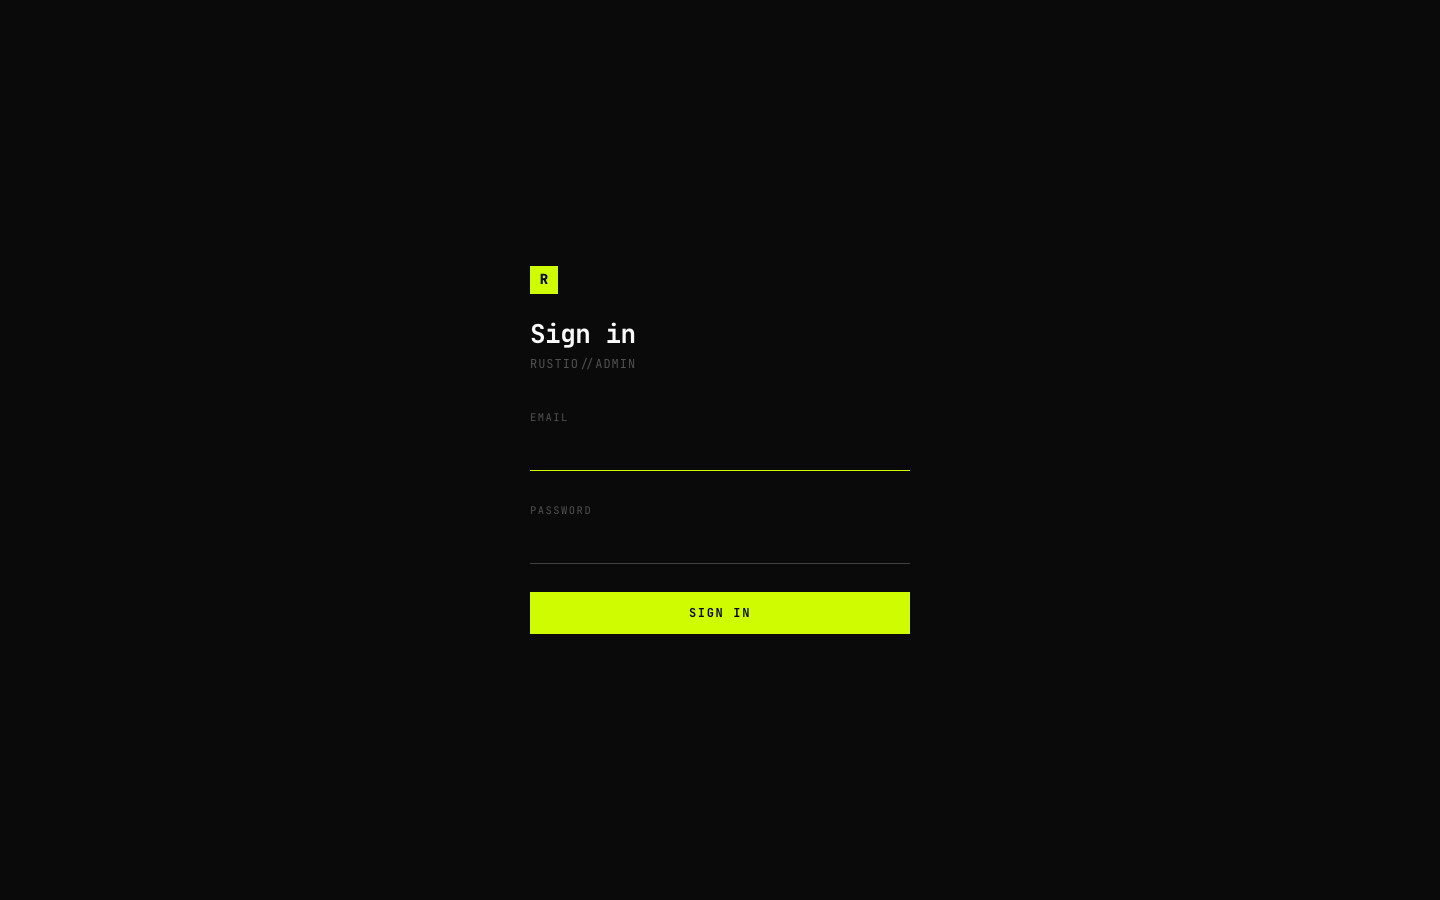
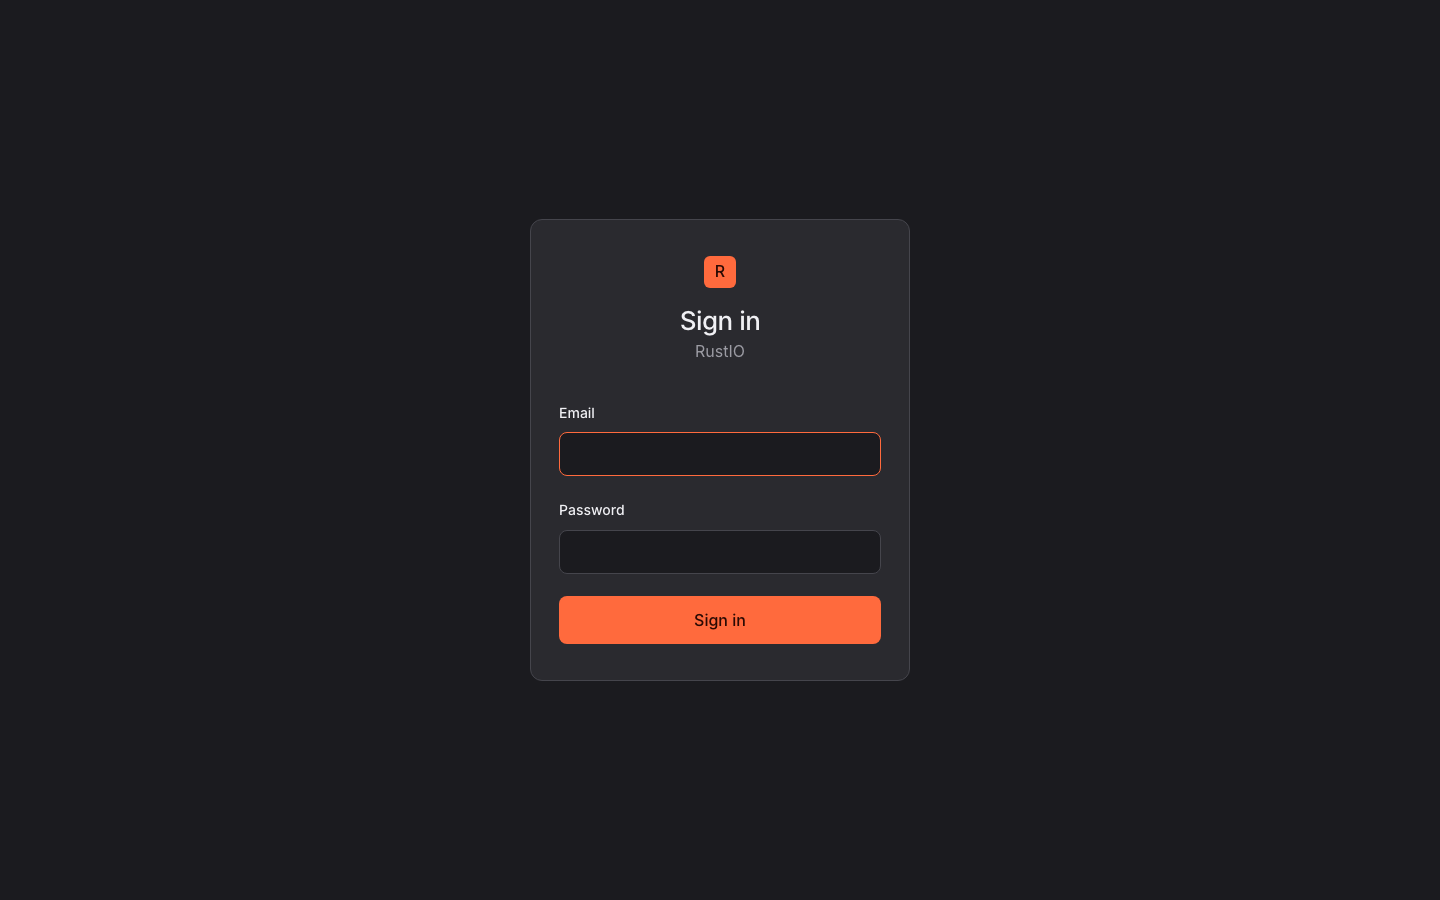
refactor(admin)[5/5]: auth + sentence-case status renderer + screenshots
Auth (login page):
  - Centered 380px card on the canvas, --bg-surface fill, 0.5px
    border, 12px radius.
  - Accent-orange "R" mark at the top (32x32, 6px radius).
  - 26px "Sign in" headline + 16px project-name subtitle, all
    weight 500 / 400 per spec.
  - Inputs: 44px height, --bg-canvas fill (slightly darker than
    the card around them), 0.5px border, focus moves border to
    --accent (no glow, no shadow).
  - Submit: full-width filled --accent button, weight 500.
  - Old admin-shell Bootstrap utility classes removed from the
    template — auth now uses semantic .rio-* classes only.

Rust renderer — humanize_status_label:
  - New helper turns raw status values into sentence case:
      "in_progress" → "In progress"
      "TODO"        → "Todo"
      "done"        → "Done"
      "custom_state"→ "Custom state"
  - Underscores become spaces, only the first character is
    uppercased (sentence case, not Title Case per the spec).
  - normalize_status_pill calls into it for the non-boolean
    branch. Booleans still map "0"/"1" → "Active"/"Inactive"
    directly (already sentence case).
  - Two new + one updated unit test in admin::layout::tests
    cover the humanizer happy path and edge cases (empty,
    leading whitespace, multi-word).

Template test update:
  - admin::templating::tests::dashboard_renders_with_minimum_context
    asserted the rendered HTML contains "Dashboard". The new
    dashboard template uses "Overview" (in <title>) and "Your
[…]

Changed region(s): [[0.3438, 0.2178, 0.6562, 0.7778]]

diff --git a/rustio-core/assets/static/admin.css b/rustio-core/assets/static/admin.css
@@ -654,6 +654,121 @@ body.admin-shell .page-item.active .page-link,
   color: var(--accent);
 }
 
+/* ----------------------------------------------------------------------------
+ * Auth (sign-in) — centred card on the canvas
+ * -------------------------------------------------------------------------- */
+
+body.admin-auth {
+  display: flex;
+  align-items: center;
+  justify-content: center;
+  min-height: 100vh;
+  padding: var(--space-6) var(--space-4);
+  background: var(--bg-canvas);
+  color: var(--text-primary);
+  font-family: var(--font-sans);
+  font-size: var(--text-body);
+  line-height: 1.7;
+}
+
+.rio-auth {
+  width: 100%;
+  max-width: 380px;
+  background: var(--bg-surface);
+  border: 0.5px solid var(--border-default);
+  border-radius: var(--radius-lg);
+  padding: var(--space-7) var(--space-6);
+}
+
+.rio-auth__header {
+  text-align: center;
+  margin-bottom: var(--space-7);
+}
+
+.rio-auth__mark {
+  display: inline-flex;
+  align-items: center;
+  justify-content: center;
+  width: 32px;
+  height: 32px;
+  border-radius: var(--radius-sm);
+  background: var(--accent);
+  color: var(--accent-text);
+  font-weight: 500;
+  font-size: var(--text-h3);
+  margin-bottom: var(--space-4);
+}
+
+.rio-auth__title {
+  font-size: var(--text-hero);
+  font-weight: 500;
+  color: var(--text-primary);
+  letter-spacing: -0.5px;
+  margin: 0;
+}
+
+.rio-auth__subtitle {
+  margin-top: var(--space-1);
+  font-size: var(--text-body);
+  color: var(--text-secondary);
+}
+
+body.admin-auth .form-control {
+  width: 100%;
+  height: 44px;
+  background: var(--bg-canvas);
+  color: var(--text-primary);
+  border: 0.5px solid var(--border-default);
+  border-radius: var(--radius-md);
+  padding: 0 14px;
+  font-family: var(--font-sans);
+  font-size: var(--text-body);
+}
+
+body.admin-auth .form-control:focus {
+  border-color: var(--accent);
+  outline: none;
+  box-shadow: none;
+}
+
+body.admin-auth .form-label {
+  display: block;
+  font-size: var(--text-meta);
+  font-weight: 500;
+  color: var(--text-primary);
+  margin-bottom: var(--space-2);
+}
+
+body.admin-auth .form-field { margin-bottom: var(--space-5); }
+
+body.admin-auth .btn-primary {
+  display: block;
+  width: 100%;
+  background: var(--accent);
+  color: var(--accent-text);
+  border: none;
+  border-radius: var(--radius-md);
+  padding: 12px;
+  font-family: var(--font-sans);
+  font-size: var(--text-body);
+  font-weight: 500;
+  cursor: pointer;
+  margin-top: var(--space-4);
+}
+
+body.admin-auth .btn-primary:hover { filter: brightness(1.05); }
+body.admin-auth .btn-primary:active { transform: scale(0.98); }
+
+body.admin-auth .alert {
+  background: transparent;
+  border: 0.5px solid var(--accent);
+  border-radius: var(--radius-md);
+  color: var(--text-primary);
+  padding: var(--space-3) var(--space-4);
+  font-size: var(--text-body);
+  margin-bottom: var(--space-5);
+}
+
 .rio-form__field {
   margin-bottom: var(--space-6);
 }

diff --git a/rustio-core/assets/templates/auth/login.html b/rustio-core/assets/templates/auth/login.html
@@ -8,20 +8,20 @@
   <div class="rio-auth__header">
     <div class="rio-auth__mark">{{ design.logo_initial | default('R') }}</div>
     <h1 class="rio-auth__title">Sign in</h1>
-    <div class="rio-auth__subtitle">{{ design.project_name | default('RustIO') }}//ADMIN</div>
+    <p class="rio-auth__subtitle">{{ design.project_name | default('RustIO') }}</p>
   </div>
 
   {% if error %}
-    <div class="alert" role="alert">[error] {{ error }}</div>
+    <div class="alert" role="alert">{{ error }}</div>
   {% endif %}
 
   <form method="post" action="/admin/login" novalidate>
     {% if next_url %}<input type="hidden" name="next" value="{{ next_url }}">{% endif %}
-    <div class="rio-form__field">
+    <div class="form-field">
       <label for="email" class="form-label">Email</label>
       <input type="email" class="form-control" id="email" name="email" value="{{ email | default('') }}" autocomplete="username" required autofocus>
     </div>
-    <div class="rio-form__field">
+    <div class="form-field">
       <label for="password" class="form-label">Password</label>
       <input type="password" class="form-control" id="password" name="password" autocomplete="current-password" required>
     </div>

diff --git a/rustio-core/src/admin/layout.rs b/rustio-core/src/admin/layout.rs
@@ -1786,25 +1786,42 @@ fn is_status_field_name(name: &str) -> bool {
         || n.starts_with("has_")
 }
 
-/// Normalise a raw cell value for status-pill rendering.
+/// Normalise a raw cell value for status rendering.
 ///
 /// Returns `(data_status_value, display_label)`:
-/// - `data_status_value` is what goes into the `data-status` attribute;
-///   admin.css uses it to pick the pill colour
-///   (`active`/`pending`/`inactive`/`info`).
-/// - `display_label` is the human-readable text shown inside the pill.
+/// - `data_status_value` is the lowercased value placed in the
+///   `data-status` attribute. The 0.10.x design system renders every
+///   status uniformly in `--text-secondary` regardless of the value,
+///   but the attribute is retained so a project can re-introduce
+///   colour-coding via its own `templates/static/admin.css` override.
+/// - `display_label` is the sentence-case text shown in the cell. The
+///   visual spec mandates sentence case everywhere — never `TODO`,
+///   never `In_Progress`. Underscores in the raw value are replaced
+///   with spaces and only the first letter is upper-cased.
 ///
 /// SQLite booleans round-trip as `"0"` / `"1"` strings through the
-/// persistence layer; we map those to the more readable `Active` /
-/// `Inactive` here. String statuses (`todo` / `in_progress` / `done`)
-/// pass through with the original casing for the label and lowercased
-/// for `data-status` so CSS matchers fire on `[data-status="done"]`.
+/// persistence layer; both are mapped to the readable `Active` /
+/// `Inactive` labels.
 fn normalize_status_pill(raw: &str) -> (String, String) {
     let lc = raw.trim().to_lowercase();
     match lc.as_str() {
         "1" | "true" | "yes" | "on" => ("active".to_string(), "Active".to_string()),
         "0" | "false" | "no" | "off" => ("inactive".to_string(), "Inactive".to_string()),
-        _ => (lc, raw.to_string()),
+        _ => (lc.clone(), humanize_status_label(raw)),
+    }
+}
+
+/// Turn a raw status value into a sentence-case display label:
+/// `"in_progress"` → `"In progress"`, `"TODO"` → `"Todo"`,
+/// `"done"` → `"Done"`. Underscores become spaces. Only the first
+/// character is upper-cased; the rest stay lower-case (sentence case,
+/// not Title Case).
+fn humanize_status_label(raw: &str) -> String {
+    let spaced = raw.trim().replace('_', " ").to_lowercase();
+    let mut chars = spaced.chars();
+    match chars.next() {
+        None => String::new(),
+        Some(first) => first.to_uppercase().collect::<String>() + chars.as_str(),
     }
 }
 
@@ -2020,26 +2037,37 @@ mod tests {
     }
 
     #[test]
-    fn normalize_status_pill_passes_through_string_statuses() {
-        // String statuses keep their original casing in the label but
-        // lowercase in the data-status attribute (so admin.css matchers
-        // like `[data-status="done"]` fire reliably).
+    fn normalize_status_pill_humanizes_string_statuses() {
+        // String statuses get sentence-case labels — never SCREAMING,
+        // never Title_Case. `data-status` stays lowercased for CSS
+        // matchers in projects that re-introduce colour coding.
         let (data, label) = normalize_status_pill("In_Progress");
         assert_eq!(data, "in_progress");
-        assert_eq!(label, "In_Progress");
+        assert_eq!(label, "In progress");
 
         let (data, label) = normalize_status_pill("DONE");
         assert_eq!(data, "done");
-        assert_eq!(label, "DONE");
+        assert_eq!(label, "Done");
 
         let (data, label) = normalize_status_pill("todo");
         assert_eq!(data, "todo");
-        assert_eq!(label, "todo");
+        assert_eq!(label, "Todo");
 
-        // Unknown value: passes through. The base `[data-status]` rule
-        // still applies the pill shape; only the colour is missing.
-        let (data, label) = normalize_status_pill("custom");
-        assert_eq!(data, "custom");
-        assert_eq!(label, "custom");
+        let (data, label) = normalize_status_pill("review");
+        assert_eq!(data, "review");
+        assert_eq!(label, "Review");
+
+        // Unknown value: still humanised the same way.
+        let (data, label) = normalize_status_pill("custom_state");
+        assert_eq!(data, "custom_state");
+        assert_eq!(label, "Custom state");
+    }
+
+    #[test]
+    fn humanize_status_label_handles_edges() {
+        assert_eq!(humanize_status_label(""), "");
+        assert_eq!(humanize_status_label("a"), "A");
+        assert_eq!(humanize_status_label(" trim "), "Trim");
+        assert_eq!(humanize_status_label("multi_word_status"), "Multi word status");
     }
 }

diff --git a/rustio-core/src/admin/templating.rs b/rustio-core/src/admin/templating.rs
@@ -279,7 +279,12 @@ mod tests {
                 dashboard_cards => Vec::<minijinja::Value>::new(),
             })
             .unwrap();
-        assert!(out.contains("Dashboard"));
+        // The 0.10.x design system titles the dashboard page
+        // "Your workspace" inside the page-head, and "Overview ·
+        // <project>" in the <title>. Either signals the template
+        // resolved + rendered with the design context dict.
+        assert!(out.contains("Overview"));
+        assert!(out.contains("workspace"));
         assert!(out.contains("Test"));
     }
 
